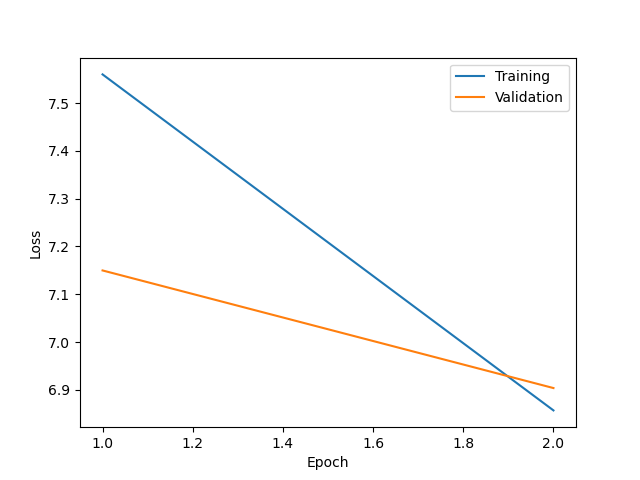
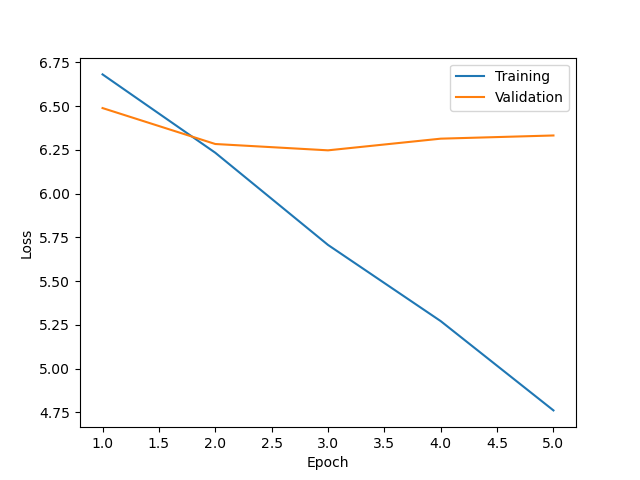
Attempts to solve issue #13, built a bit on Vetles code. Also switched LSTM layers in seq2seq model with GRU layers. Now the correct loss values are displayed. Added some more printed details after each epoch. Now each checkpoint-file name contains the training part number, the epoch number for the 

diff --git a/training_testing.py b/training_testing.py
@@ -5,6 +5,7 @@ import numpy as np
 import torch
 import torch.nn as nn
 import random
+import os
 
 import config
 
@@ -14,10 +15,9 @@ class Encoder(nn.Module):
         super(Encoder, self).__init__()
 
         self.embedding = nn.Embedding(input_size, embedding_size)
-        self.lstm = nn.LSTM(embedding_size, hidden_size, num_layers, bidirectional=True)
+        self.gru = nn.GRU(embedding_size, hidden_size, num_layers, bidirectional=True)
 
         self.fc_hidden = nn.Linear(hidden_size * 2, hidden_size)
-        self.fc_cell = nn.Linear(hidden_size * 2, hidden_size)
         self.dropout = nn.Dropout(p)
 
     def forward(self, x):
@@ -26,17 +26,16 @@ class Encoder(nn.Module):
         embedding = self.dropout(self.embedding(x))
         # embedding shape: (seq_length, batch_size, embedding_size)
 
-        encoder_states, (hidden, cell) = self.lstm(embedding)
+        encoder_states, hidden = self.gru(embedding)
         # encoder_states shape: (seq_length, batch_size, hidden_size * 2)
 
-        # Use forward, backward cells and hidden through a linear layer
+        # Use forward, backward hidden through a linear layer
         # so that it can be input to the decoder which is not bidirectional
         # Also using index slicing ([idx:idx+1]) to keep the dimension
         # hidden shape: (2, batch_size, hidden_size)
         hidden = self.fc_hidden(torch.cat((hidden[0:1], hidden[1:2]), dim=2))
-        cell = self.fc_cell(torch.cat((cell[0:1], cell[1:2]), dim=2))
 
-        return encoder_states, hidden, cell
+        return encoder_states, hidden
 
 
 class Decoder(nn.Module):
@@ -46,7 +45,7 @@ class Decoder(nn.Module):
         super(Decoder, self).__init__()
 
         self.embedding = nn.Embedding(input_size, embedding_size)
-        self.lstm = nn.LSTM(hidden_size * 2 + embedding_size, hidden_size, num_layers)
+        self.gru = nn.GRU(hidden_size * 2 + embedding_size, hidden_size, num_layers)
 
         self.energy = nn.Linear(hidden_size * 3, 1)
         self.fc = nn.Linear(hidden_size, output_size)
@@ -54,7 +53,7 @@ class Decoder(nn.Module):
         self.softmax = nn.Softmax(dim=0)
         self.relu = nn.ReLU()
 
-    def forward(self, x, encoder_states, hidden, cell, device):
+    def forward(self, x, encoder_states, hidden, device):
         if isinstance(x, int):
             x = torch.tensor([x for _ in range(hidden.shape[1])], dtype=torch.int64).to(device)
 
@@ -80,16 +79,16 @@ class Decoder(nn.Module):
         # we want context_vector: (1, batch_size, hidden_size*2), i.e knl
         context_vector = torch.einsum("snk,snl->knl", attention, encoder_states)
 
-        lstm_input = torch.cat((context_vector, embedding), dim=2)
-        # lstm_input: (1, batch_size, hidden_size*2 + embedding_size)
+        gru_input = torch.cat((context_vector, embedding), dim=2)
+        # gru_input: (1, batch_size, hidden_size*2 + embedding_size)
 
-        outputs, (hidden, cell) = self.lstm(lstm_input, (hidden, cell))
+        outputs, hidden = self.gru(gru_input, hidden)
         # outputs shape: (1, batch_size, hidden_size)
 
         predictions = self.fc(outputs).squeeze(0)
         # predictions: (batch_size, output_size)
 
-        return predictions, hidden, cell
+        return predictions, hidden
 
 
 class Seq2Seq(nn.Module):
@@ -117,7 +116,7 @@ class Seq2Seq(nn.Module):
 
         outputs = torch.zeros(target_len, batch_size, target_vocab_size).to(self.device)
 
-        encoder_states, hidden, cell = self.encoder(source)
+        encoder_states, hidden = self.encoder(source)
 
         # Get the first input to the decoder which is the sos token
         if self.decoder.embedding.num_embeddings == 1:
@@ -127,7 +126,7 @@ class Seq2Seq(nn.Module):
 
         for t in range(0, target_len):
             # Use previous hidden, cell as context from encoder at start
-            output, hidden, cell = self.decoder(x, encoder_states, hidden, cell, self.device)
+            output, hidden = self.decoder(x, encoder_states, hidden, self.device)
 
             # Store next output prediction
             outputs[t] = output
@@ -159,16 +158,16 @@ def reshape_output_and_y(output, y):
     return output, y
 
 
-def get_x_y(semi_supervised, sample, device):
+def get_x_y(semi_supervised, batch, device):
     if semi_supervised == config.SEMI_SUPERVISED_PHASE_1_ELEVENTH_WORD:
-        x, y = sample['10 words'].to(device), sample['eleventh word'].to(device)
+        x, y = batch['10 words'].to(device), batch['eleventh word'].to(device)
     elif semi_supervised == config.SEMI_SUPERVISED_PHASE_1_SHUFFLED_WORDS:
-        x, y = sample['10 words shuffled'].to(device), sample['10 words shuffled to sentence indexes'].to(device)
+        x, y = batch['10 words shuffled'].to(device), batch['10 words shuffled to sentence indexes'].to(device)
         y = y.transpose(1, 0)
     else:
-        x, y = sample['10 words'].to(device), sample['category'].to(device)
+        x, y = batch['10 words'].to(device), batch['category'].to(device)
 
-    # Swapping dimensions of x to make it's shape correct for the LSTM without batch_first=True,
+    # Swapping dimensions of x to make it's shape correct for the GRU without batch_first=True,
     # which expects an input of shape (seq_length, batch_size, hidden_size)
     x = x.transpose(1, 0)
     # x shape: (seq_length, batch_size)
@@ -176,62 +175,64 @@ def get_x_y(semi_supervised, sample, device):
     return x, y
 
 
-def train(train_len, optimizer, model, criterion, epoch_loss, device, dataloaders, semi_supervised=0):
+def train(train_len, optimizer, model, criterion, device, dataloaders, semi_supervised=0):
     # Train the model
 
-    train_loss = torch.zeros(1, dtype=torch.float).to(device)
+    total_loss = torch.zeros(1, dtype=torch.float).to(device)
     train_acc = torch.zeros(1, dtype=torch.float).to(device)
 
     data = dataloaders[config.FILE_TRAINING]
 
-    for sample in data:
+    # Get number of batches
+    n_batches = len(data)
+
+    for batch in data:
         optimizer.zero_grad()
 
-        x, y = get_x_y(semi_supervised, sample, device)
+        x, y = get_x_y(semi_supervised, batch, device)
 
         output = model(x, y, semi_supervised)
 
         output, y = reshape_output_and_y(output, y)
 
-        loss = criterion(output, y)
-        train_loss += loss.item()
-        loss.backward()
+        batch_loss = criterion(output, y)
+        total_loss += batch_loss.item()
+        batch_loss.backward()
 
         # Clip to avoid exploding gradient problems, makes sure grads are
         # within an okay range
         torch.nn.utils.clip_grad_norm_(model.parameters(), max_norm=1)
 
-        epoch_loss.append(loss.item())
         optimizer.step()
         train_acc += (output.argmax(1) == y).sum().item()
 
-    return train_loss / train_len, train_acc / train_len
+    return total_loss / n_batches, train_acc / train_len
 
 
-def test(dataloader, data_len, batch_size, criterion, model, device, epoch_loss=None,
+def test(dataloader, data_len, batch_size, criterion, model, device,
          semi_supervised=config.SUPERVISED):
     # Test the model
 
-    val_loss = torch.zeros(1, dtype=torch.float).to(device)
+    total_loss = torch.zeros(1, dtype=torch.float).to(device)
     val_acc = torch.zeros(1, dtype=torch.float).to(device)
 
-    for sample in dataloader:
+    # Get number of batches
+    n_batches = len(dataloader)
 
-        x, y = get_x_y(semi_supervised, sample, device)
+    for batch in dataloader:
+
+        x, y = get_x_y(semi_supervised, batch, device)
 
         with torch.no_grad():
             output = model(x, y, semi_supervised)
 
             output, y = reshape_output_and_y(output, y)
 
-            loss = criterion(output, y)
-            val_loss += loss.item()
+            batch_loss = criterion(output, y)
+            total_loss += batch_loss.item()
             val_acc += (output.argmax(1) == y).sum().item()
 
-            if epoch_loss is not None:
-                epoch_loss.append(loss.item())
-
-    return val_loss / data_len, val_acc / data_len
+    return total_loss / n_batches, val_acc / data_len
 
 
 def my_plot(epochs, loss_train, loss_val, semi_supervised=0):
@@ -285,9 +286,6 @@ def run(device, dataset_sizes, dataloaders, num_classes, semi_supervised, num_ep
     else:
         train_len = dataset_sizes[config.FILE_TRAINING]
 
-    loss_vals_train = []
-    loss_vals_val = []
-
     if semi_supervised == config.SUPERVISED:
         print("Supervised training:\n")
     elif semi_supervised == config.SEMI_SUPERVISED_PHASE_1_ELEVENTH_WORD:
@@ -297,42 +295,52 @@ def run(device, dataset_sizes, dataloaders, num_classes, semi_supervised, num_ep
     else:
         print("\nSemi-supervised phase 2 training:\n")
 
-    # Load checkpoint, if one exists
-    try:
-        data = torch.load(f'outputs/checkpoints/checkpoint_{semi_supervised}.tar')
-    except OSError:
-        print(f'No checkpoint for {semi_supervised}')
-    else:
-        print(f'Using checkpoint for {semi_supervised}')
-        model.load_state_dict(data)
-        return model
+    if config.LOAD_MODEL:
+        # Load checkpoint, if one exists
+        for filename in os.listdir(config.CHECKPOINTS_DIR):
+            root, ext = os.path.splitext(filename)
 
-    best_loss, best_model = float('inf'), None
+            if root.startswith(f'checkpoint_{semi_supervised}') and ext == '.tar':
+                data = torch.load(config.CHECKPOINTS_DIR + filename)
+                print(f'Using checkpoint for {semi_supervised}')
+                model.load_state_dict(data)
+                return model
+
+        print(f'No checkpoint for {semi_supervised}')
+
+    training_loss = []
+    validation_loss = []
+
+    best_loss, best_acc, best_model = float('inf'), 0, None
+    best_epoch_loss, best_epoch_acc = 0, 0
 
     for epoch in range(num_epochs):
         start_time = time.time()
 
-        epoch_loss_train = []
-        epoch_loss_val = []
-
-        train_loss, train_acc = train(train_len, optimizer, model, criterion, epoch_loss_train, device,
+        train_loss, train_acc = train(train_len, optimizer, model, criterion, device,
                                       dataloaders, semi_supervised=semi_supervised)
 
-        loss_vals_train.append(sum(epoch_loss_train) / len(epoch_loss_train))
+        training_loss.append(train_loss)
 
         valid_loss, valid_acc = test(dataloaders[config.FILE_VALIDATION],
                                      dataset_sizes[config.FILE_VALIDATION] * config.N_FEATURES
                                      if semi_supervised == config.SEMI_SUPERVISED_PHASE_1_SHUFFLED_WORDS
                                      else dataset_sizes[config.FILE_VALIDATION],
                                      config.BATCH_SIZE,
-                                     criterion, model, device, epoch_loss_val,
+                                     criterion, model, device,
                                      semi_supervised=semi_supervised)
 
-        loss_vals_val.append(sum(epoch_loss_val) / len(epoch_loss_val))
+        validation_loss.append(valid_loss)
         
         # Save model as the best model if the loss is lower
         if valid_loss < best_loss:
-            best_model = model        
+            best_loss = valid_loss
+            best_epoch_loss = epoch + 1
+            best_model = model
+
+        if valid_acc > best_acc:
+            best_acc = valid_acc
+            best_epoch_acc = epoch + 1
 
         secs = int(time.time() - start_time)
         mins = secs / 60
@@ -354,13 +362,18 @@ def run(device, dataset_sizes, dataloaders, num_classes, semi_supervised, num_ep
 
         print(f'\tLoss: {test_loss.item():.4f}(test)\t|\tAcc: {test_acc.item() * 100:.1f}%(test)')
 
-    # Save best model to disk
-    torch.save(best_model.state_dict(), f'outputs/checkpoints/checkpoint_{semi_supervised}.tar')
+    print(f'\nBest validation loss: {best_loss.item():.4f} (Epoch: {best_epoch_loss})'
+          f'\nBest validation accuracy: {best_acc.item() * 100:.1f}% (Epoch: {best_epoch_acc})')
 
-    my_plot(np.linspace(1, num_epochs, num_epochs).astype(int), loss_vals_train,
-            loss_vals_val, semi_supervised)
+    if config.SAVE_MODEL:
+        # Save best model to disk
+        torch.save(best_model.state_dict(),
+                   f'outputs/checkpoints/checkpoint_{semi_supervised}_{best_epoch_loss}-{best_loss.item():.4f}.tar')
 
-    # Model from semi-supervised phase 1 is trained further in semi-supervised phase 2
+    my_plot(np.linspace(1, num_epochs, num_epochs).astype(int), training_loss,
+            validation_loss, semi_supervised)
+
+    # Best model from semi-supervised phase 1 is trained further in semi-supervised phase 2
     if semi_supervised == config.SEMI_SUPERVISED_PHASE_1_ELEVENTH_WORD or \
             semi_supervised == config.SEMI_SUPERVISED_PHASE_1_SHUFFLED_WORDS:
         return best_model

diff --git a/config.py b/config.py
@@ -4,6 +4,8 @@ TEST_RATIO = 0.1
 SIZE_OF_DATASET = 375_000
 
 DATA_DIR = 'data/'
+OUTPUTS_DIR = 'outputs/'
+CHECKPOINTS_DIR = OUTPUTS_DIR + 'checkpoints/'
 
 FILE_TRAINING = 'words_train.csv'
 FILE_VALIDATION = 'words_valid.csv'
@@ -45,6 +47,9 @@ PAD_IDX = 0
 TARGET_LEN = 1
 
 FORCE_CPU = False
+
+LOAD_MODEL = True
+SAVE_MODEL = True
 
 # Supervised (input: 10 words, output: category)
 SUPERVISED_NUM_CLASSES = len(categories)
